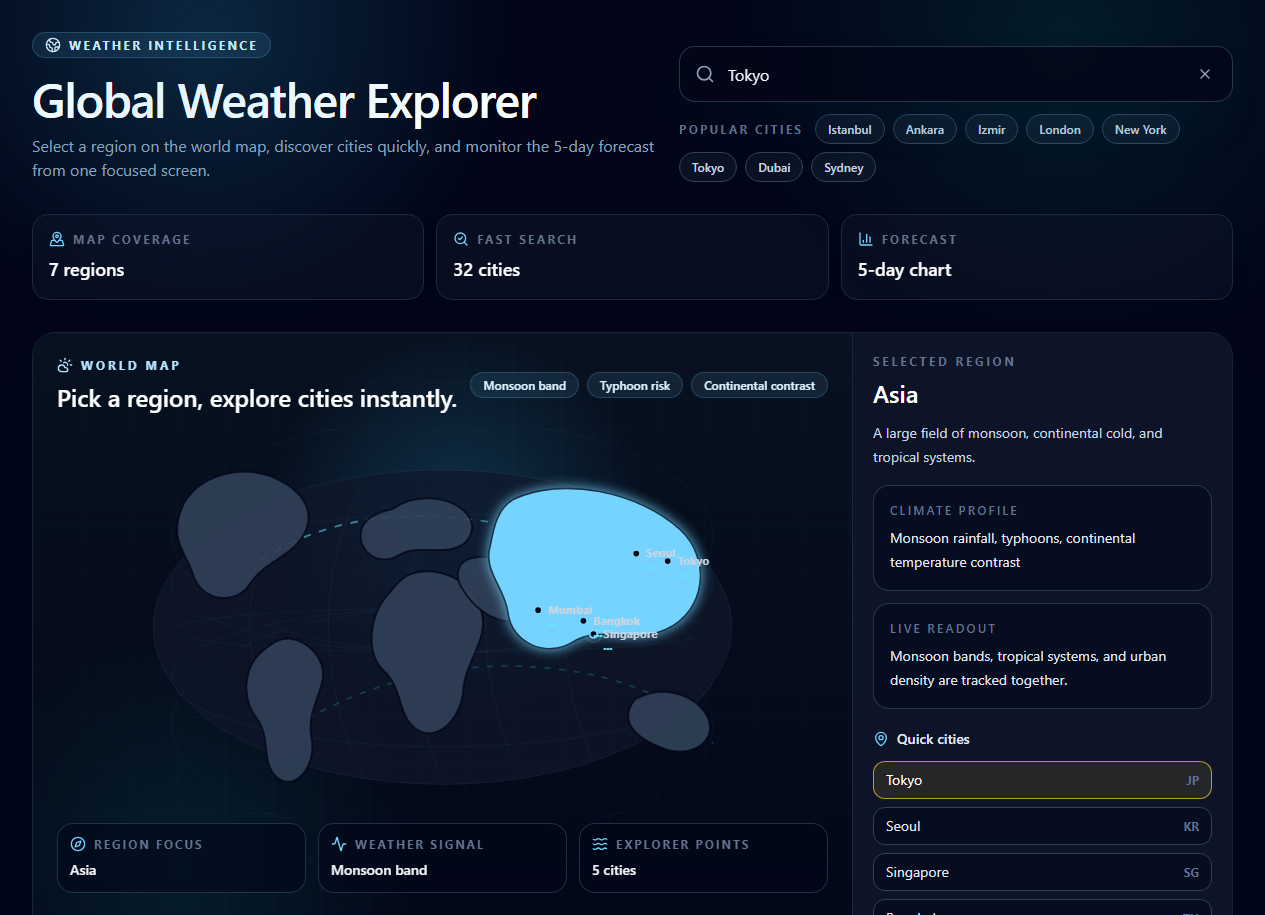
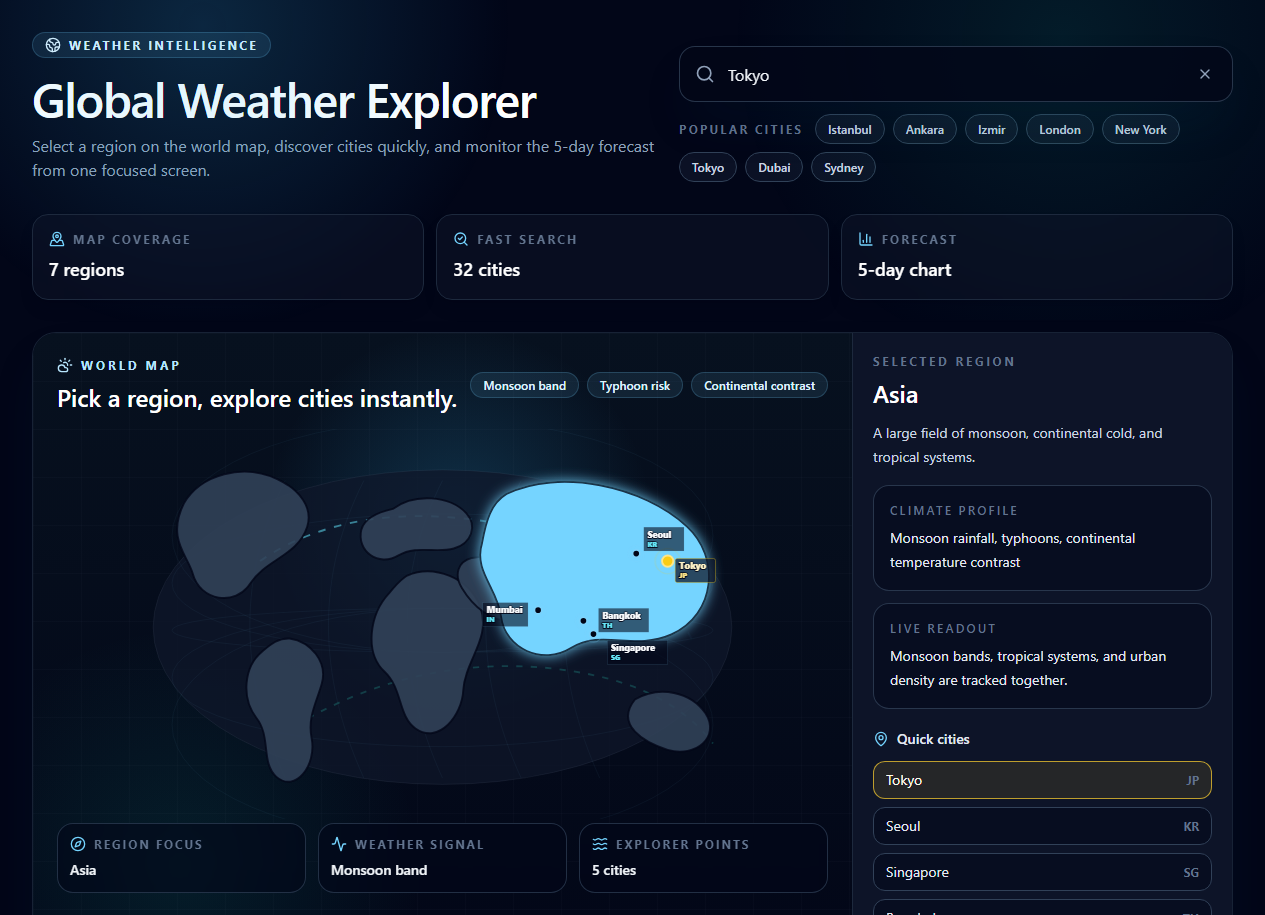
Improve map label readability

diff --git a/src/data/worldRegions.ts b/src/data/worldRegions.ts
@@ -14,6 +14,8 @@ export type CityOption = {
   query: string
   x: number
   y: number
+  labelDx?: number
+  labelDy?: number
 }
 
 export type WorldRegion = {
@@ -70,13 +72,13 @@ export const worldRegions: WorldRegion[] = [
     shape:
       'M421 127 C455 102 511 105 538 134 C556 154 546 182 518 190 C489 198 459 184 430 201 C398 220 363 194 371 160 C375 145 390 134 421 127 Z',
     cities: [
-      { city: 'Istanbul', country: 'TR', label: 'Istanbul', query: 'Istanbul,TR', x: 520, y: 176 },
-      { city: 'Ankara', country: 'TR', label: 'Ankara', query: 'Ankara,TR', x: 508, y: 164 },
-      { city: 'Izmir', country: 'TR', label: 'Izmir', query: 'Izmir,TR', x: 500, y: 188 },
+      { city: 'Istanbul', country: 'TR', label: 'Istanbul', query: 'Istanbul,TR', x: 520, y: 176, labelDx: 26, labelDy: 4 },
+      { city: 'Ankara', country: 'TR', label: 'Ankara', query: 'Ankara,TR', x: 508, y: 164, labelDx: 22, labelDy: -48 },
+      { city: 'Izmir', country: 'TR', label: 'Izmir', query: 'Izmir,TR', x: 500, y: 188, labelDx: 18, labelDy: 28 },
       { city: 'London', country: 'GB', label: 'London', query: 'London,GB', x: 400, y: 146 },
-      { city: 'Berlin', country: 'DE', label: 'Berlin', query: 'Berlin,DE', x: 466, y: 126 },
-      { city: 'Paris', country: 'FR', label: 'Paris', query: 'Paris,FR', x: 420, y: 176 },
-      { city: 'Rome', country: 'IT', label: 'Rome', query: 'Rome,IT', x: 468, y: 206 },
+      { city: 'Berlin', country: 'DE', label: 'Berlin', query: 'Berlin,DE', x: 466, y: 126, labelDx: 16, labelDy: -32 },
+      { city: 'Paris', country: 'FR', label: 'Paris', query: 'Paris,FR', x: 420, y: 176, labelDx: -76, labelDy: -6 },
+      { city: 'Rome', country: 'IT', label: 'Rome', query: 'Rome,IT', x: 468, y: 206, labelDx: 16, labelDy: 24 },
     ],
   },
   {
@@ -121,11 +123,11 @@ export const worldRegions: WorldRegion[] = [
     shape:
       'M612 112 C689 74 814 100 878 160 C927 205 921 289 855 319 C799 344 754 310 707 339 C665 365 610 340 604 293 C599 251 563 226 576 184 C582 151 589 126 612 112 Z',
     cities: [
-      { city: 'Tokyo', country: 'JP', label: 'Tokyo', query: 'Tokyo,JP', x: 858, y: 210 },
-      { city: 'Seoul', country: 'KR', label: 'Seoul', query: 'Seoul,KR', x: 808, y: 198 },
-      { city: 'Singapore', country: 'SG', label: 'Singapore', query: 'Singapore,SG', x: 740, y: 326 },
-      { city: 'Bangkok', country: 'TH', label: 'Bangkok', query: 'Bangkok,TH', x: 724, y: 305 },
-      { city: 'Mumbai', country: 'IN', label: 'Mumbai', query: 'Mumbai,IN', x: 652, y: 288 },
+      { city: 'Tokyo', country: 'JP', label: 'Tokyo', query: 'Tokyo,JP', x: 858, y: 210, labelDx: 18, labelDy: -4 },
+      { city: 'Seoul', country: 'KR', label: 'Seoul', query: 'Seoul,KR', x: 808, y: 198, labelDx: 18, labelDy: -42 },
+      { city: 'Singapore', country: 'SG', label: 'Singapore', query: 'Singapore,SG', x: 740, y: 326, labelDx: 28, labelDy: 10 },
+      { city: 'Bangkok', country: 'TH', label: 'Bangkok', query: 'Bangkok,TH', x: 724, y: 305, labelDx: 30, labelDy: -20 },
+      { city: 'Mumbai', country: 'IN', label: 'Mumbai', query: 'Mumbai,IN', x: 652, y: 288, labelDx: -82, labelDy: -12 },
     ],
   },
   {

diff --git a/src/components/WorldRegionMap.tsx b/src/components/WorldRegionMap.tsx
@@ -134,7 +134,7 @@ export function WorldRegionMap({
                 <path
                   aria-label={`Select ${region.name} region`}
                   className={cn(
-                    'cursor-pointer stroke-slate-950/80 stroke-[3] transition duration-300',
+                    'cursor-pointer stroke-slate-950/80 stroke-[3] transition duration-300 [transform-box:fill-box] [transform-origin:center]',
                     isSelected
                       ? 'fill-sky-300'
                       : 'fill-slate-700/90 hover:fill-sky-500',
@@ -150,6 +150,7 @@ export function WorldRegionMap({
                     }
                   }}
                   role="button"
+                  style={{ transform: isSelected ? 'scale(1.08)' : undefined }}
                   tabIndex={0}
                 />
               )
@@ -257,6 +258,9 @@ function CityPin({
     : isLoading
       ? '...'
       : city.country
+  const labelWidth = Math.max(city.label.length * 8 + 24, badge.length * 7 + 24, 64)
+  const labelX = city.x + (city.labelDx ?? 16)
+  const labelTop = city.y + (city.labelDy ?? -18)
 
   return (
     <g
@@ -292,26 +296,46 @@ function CityPin({
         stroke={isSelected ? '#fde68a' : '#7dd3fc'}
         strokeWidth="3"
       />
-      <text
-        className="city-pin-label"
-        fill={isSelected ? '#fef3c7' : '#cbd5e1'}
-        fontSize="18"
-        fontWeight="700"
-        x={city.x + 16}
-        y={city.y + 6}
-      >
-        {city.label}
-      </text>
-      <text
-        className="city-pin-badge"
-        fill={isSelected ? '#fde68a' : '#67e8f9'}
-        fontSize="15"
-        fontWeight="800"
-        x={city.x + 16}
-        y={city.y + 25}
-      >
-        {badge}
-      </text>
+      <g className="city-pin-copy">
+        <rect
+          fill={isSelected ? 'rgba(15,23,42,0.74)' : 'rgba(2,6,23,0.58)'}
+          height="38"
+          rx={isSelected ? 3 : 0}
+          stroke={isSelected ? 'rgba(250,204,21,0.55)' : 'rgba(125,211,252,0.18)'}
+          strokeWidth="1"
+          width={labelWidth}
+          x={labelX - 6}
+          y={labelTop}
+        />
+        <text
+          className="city-pin-label"
+          fill={isSelected ? '#fef3c7' : '#f8fafc'}
+          fontSize="14"
+          fontWeight="800"
+          paintOrder="stroke fill"
+          stroke="rgba(2,6,23,0.9)"
+          strokeLinejoin="round"
+          strokeWidth="3"
+          x={labelX}
+          y={labelTop + 17}
+        >
+          {city.label}
+        </text>
+        <text
+          className="city-pin-badge"
+          fill={isSelected ? '#fde68a' : '#67e8f9'}
+          fontSize="11"
+          fontWeight="900"
+          paintOrder="stroke fill"
+          stroke="rgba(2,6,23,0.9)"
+          strokeLinejoin="round"
+          strokeWidth="3"
+          x={labelX}
+          y={labelTop + 31}
+        >
+          {badge}
+        </text>
+      </g>
     </g>
   )
 }

diff --git a/src/index.css b/src/index.css
@@ -48,6 +48,7 @@
 }
 
 @media (max-width: 640px) {
+  .city-pin-copy,
   .city-pin-label,
   .city-pin-badge {
     display: none;
